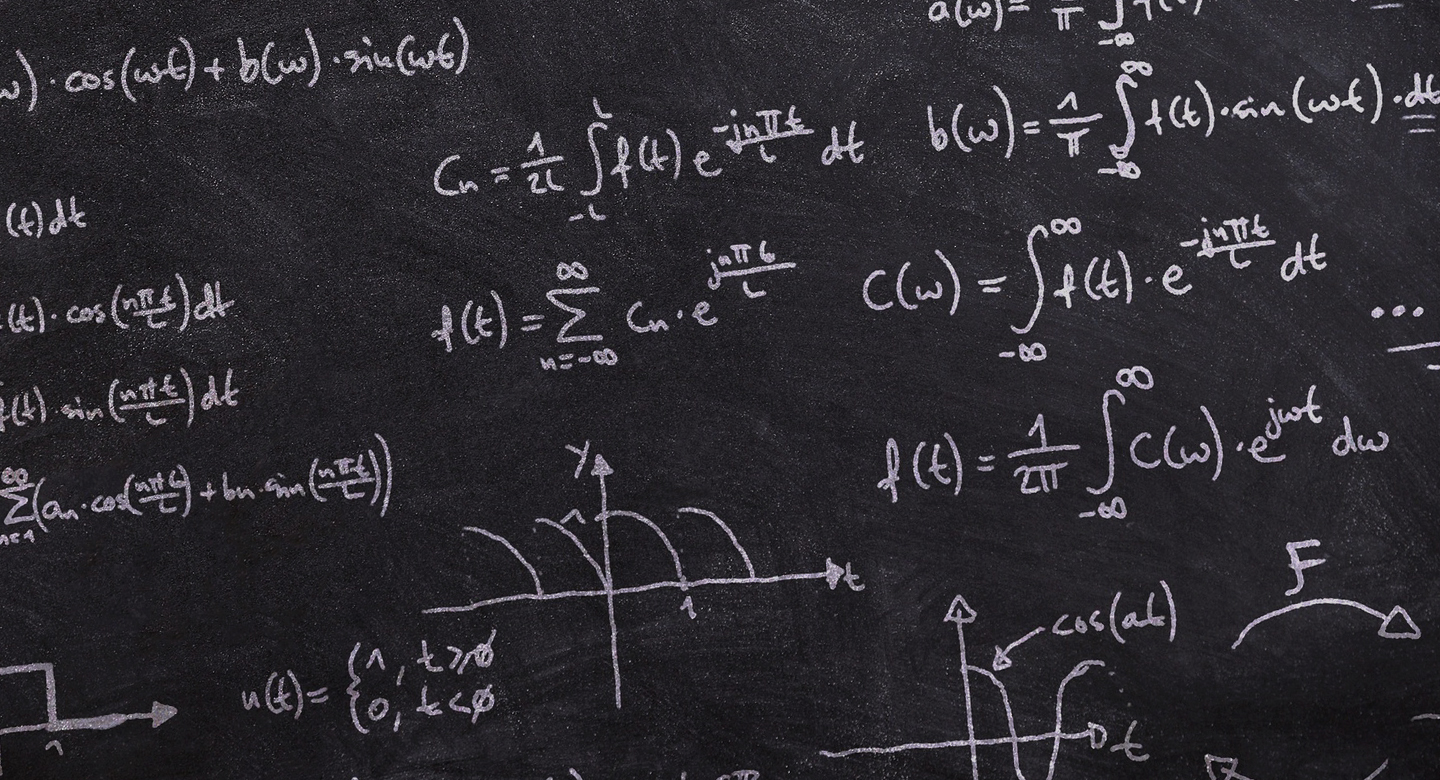
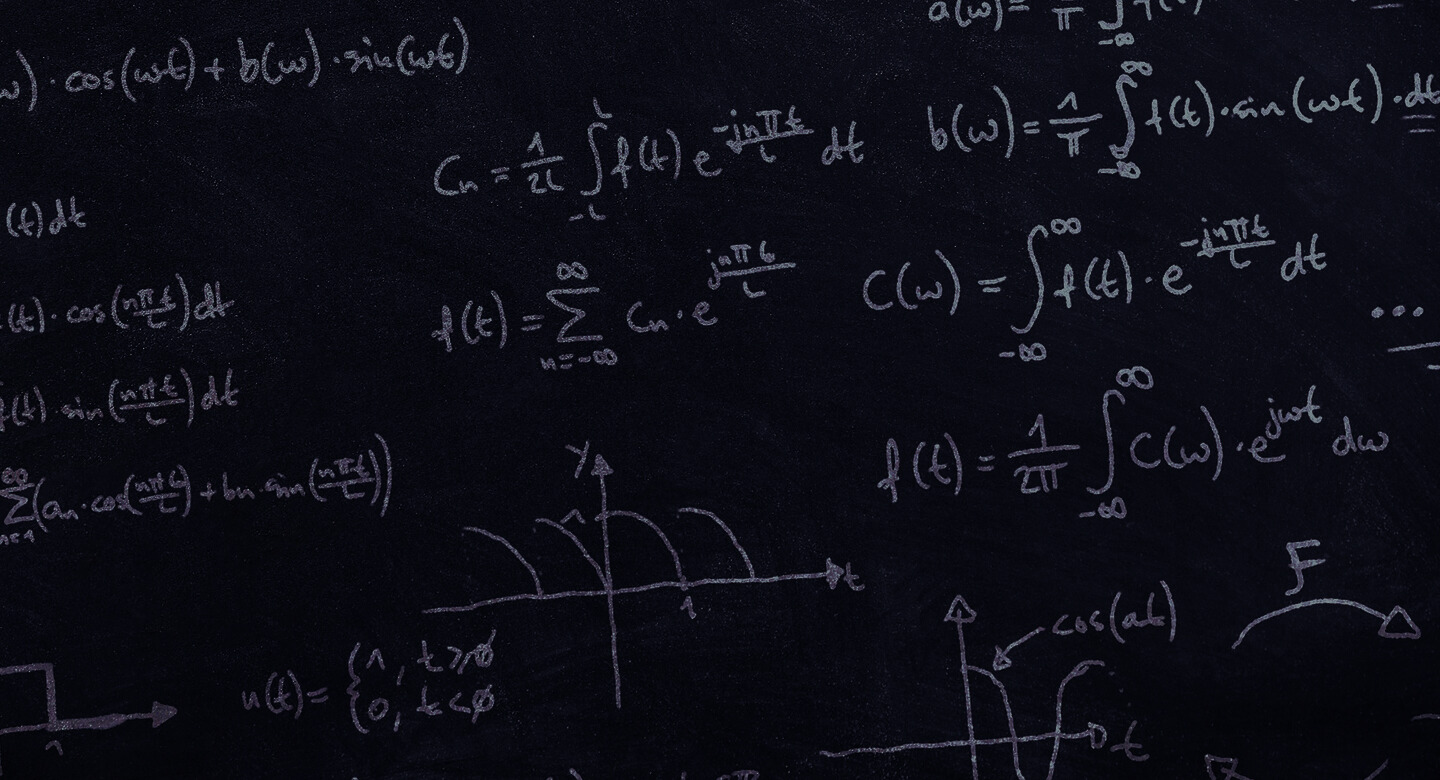
organizando melhor e melhorando a imagem de fundo

diff --git a/nerdamer/style.css b/nerdamer/style.css
@@ -1,4 +1,4 @@
-Definições gerais do site
+/* Definições gerais do site */
 *{
     margin:0;
     padding: 0;
@@ -15,7 +15,7 @@ body{
 }
 
 h1{
-    color: rgb(195, 208, 228);
+    color: rgb(45, 88, 153);
     text-align: center;
     display: flex;
     justify-content: center;
@@ -53,59 +53,54 @@ li{
  justify-content: space-between;    
 } 
 
-/* classe Principal do site e das divs */
- main{
-    height: auto;
-    padding:0% 0.1%;
-    background-image: url(fundo-integral.jpg);
+/* ------------------------------------------------- classe Principal do site e das divs --------------------------------------- */
+main{
+  height: auto;
+  padding:0% 0.1%;
+  background-image: url(fundo-integral.jpg);
 }
 
 header{
-  background-color:#fff5fc;
-  height: 85px;
+background-color:#fff5fc;
+height: 85px;
 } 
 
 nav{
-    display: flex;
-    align-items: center;
-    justify-content: space-between;
+  display: flex;
+  align-items: center;
+  justify-content: space-between;
 }
 
-
+/* Id para o logo */
 #logo{
-    width: 100px;
-    padding: 26px;
-    height: 100px;
+  width: 100px;
+  padding: 26px;
+  height: 100px;
 }
 
 .nav-links{
-    padding: 5px 25px;
-    margin-left: auto;
-    height: fit-content;
+  padding: 5px 25px;
+  margin-left: auto;
+  height: fit-content;
 }
 
 .nav-links li {
-    display: inline-block;
-    margin:  0 20px;   
+  display: inline-block;
+  margin:  0 20px;   
 }
 
 .nav-links li .fa {
-    color: rgb(195, 208, 228);
-    font-size: 30px;
-    line-height: 60px;
-    transition: .5s;
-    bottom: auto;
+  color: rgb(195, 208, 228);
+  font-size: 30px;
+  line-height: 60px;
+  transition: .5s;
+  bottom: auto;
 }
 
 .nav-links li .fa:hover{
-    color:rgb(230, 129, 146);
+  color:rgb(230, 129, 146);
 }
 
-.nav-2{
-  background-color: rgb(195, 208, 228);
-  border-radius: 2px;
-  height: 50px;
-}
 
 .texto-integral{
     font-size: large;
@@ -118,7 +113,7 @@ nav{
 
 .integral {
     text-align: center;
-    background-color: rgb(195, 208, 228);
+    background-color: rgb(40, 72, 119);
     border-radius: 12px;
     display: flex;
     margin-left: 32%;

diff --git a/nerdamer/index.html b/nerdamer/index.html
@@ -1,5 +1,5 @@
 <!DOCTYPE html>
-<html lang="en">
+<html lang="pt">
 <head>
     <meta charset="UTF-8">
     <meta name="viewport" content="width=device-width, initial-scale=1.0">
